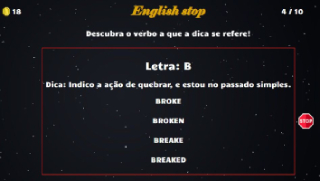
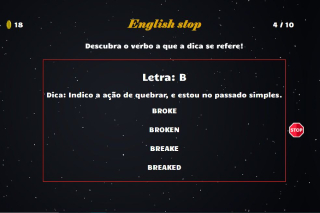
modificações

diff --git a/Games/english_stop/js/stop.js b/Games/english_stop/js/stop.js
@@ -267,7 +267,7 @@ createButton();
     fabric.Object.prototype.transparentCorners = true;
     var radius = 100;
   
-    fabric.Image.fromURL('https://cdn-icons.flaticon.com/png/512/4099/premium/4099871.png?token=exp=1642714858~hmac=f0d791492ae410b4aef4a1321eea9eb5', function(img) {
+    fabric.Image.fromURL('img/gameover.png', function(img) {
       img.scale(0.5).set({
         left: 870,
         top: 130,

diff --git a/Games/english_stop/meta/credits.html b/Games/english_stop/meta/credits.html
@@ -1,1 +1,1 @@
-<span class="line">Brenda Caroline</span>
+<span class="line">Por: Brenda Caroline</span>
